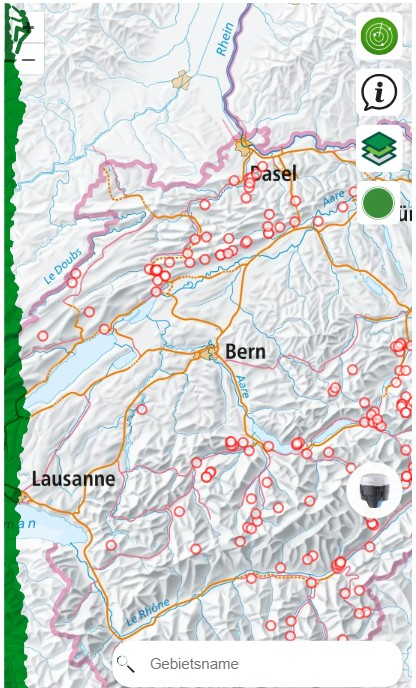
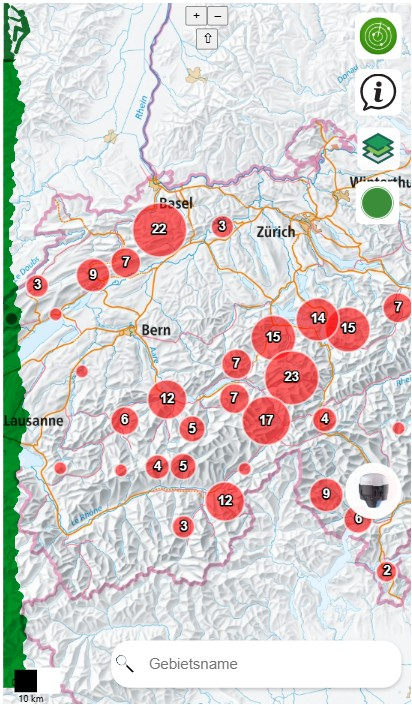
Funktionen

diff --git a/docs/funktionen.md b/docs/funktionen.md
@@ -11,6 +11,9 @@ Das Frontend besteht aus einer One-Page-Applikation im Smartphone-Layout, die me
 <div style="text-align: center;">
   <img src="bilder/Klettergebiet.jpg">
 </div>
+<div style="text-align: center;">
+  <img src="bilder/zoom.jpg">
+</div>
 
 ---
 
